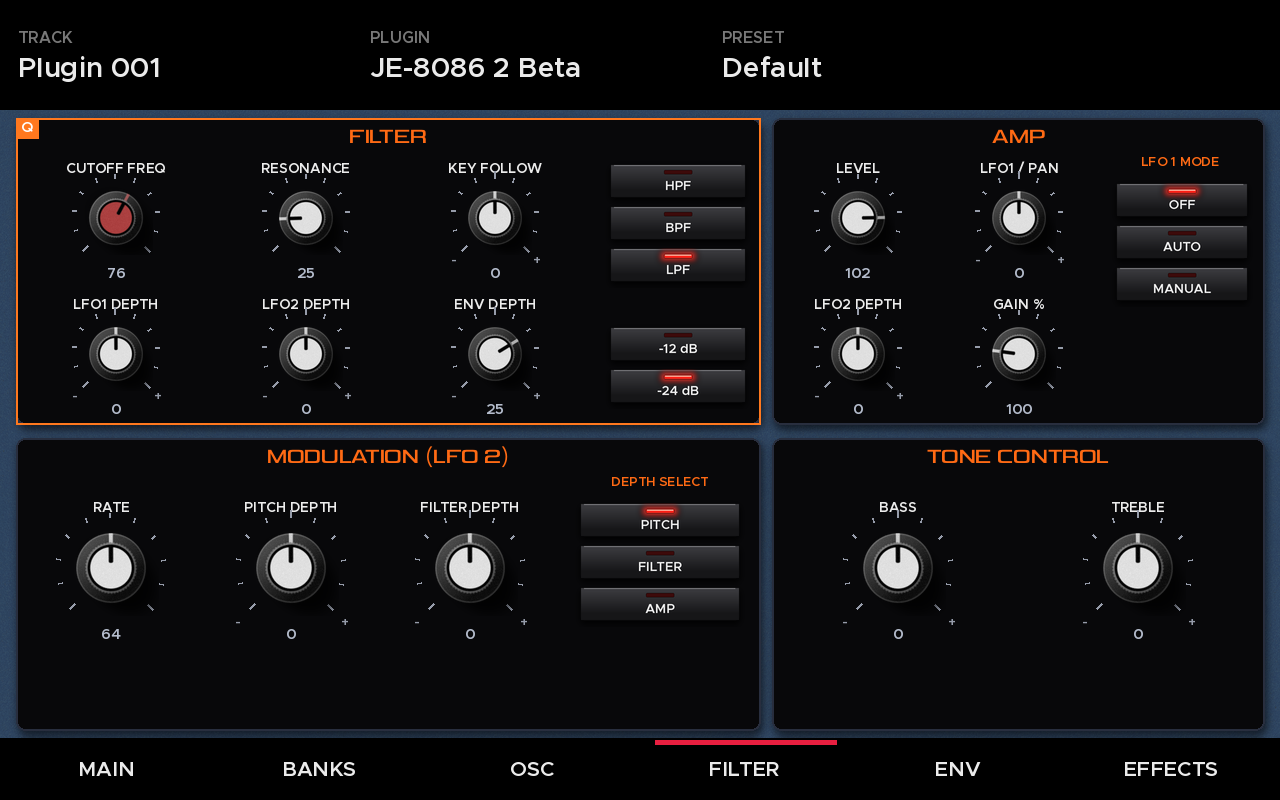
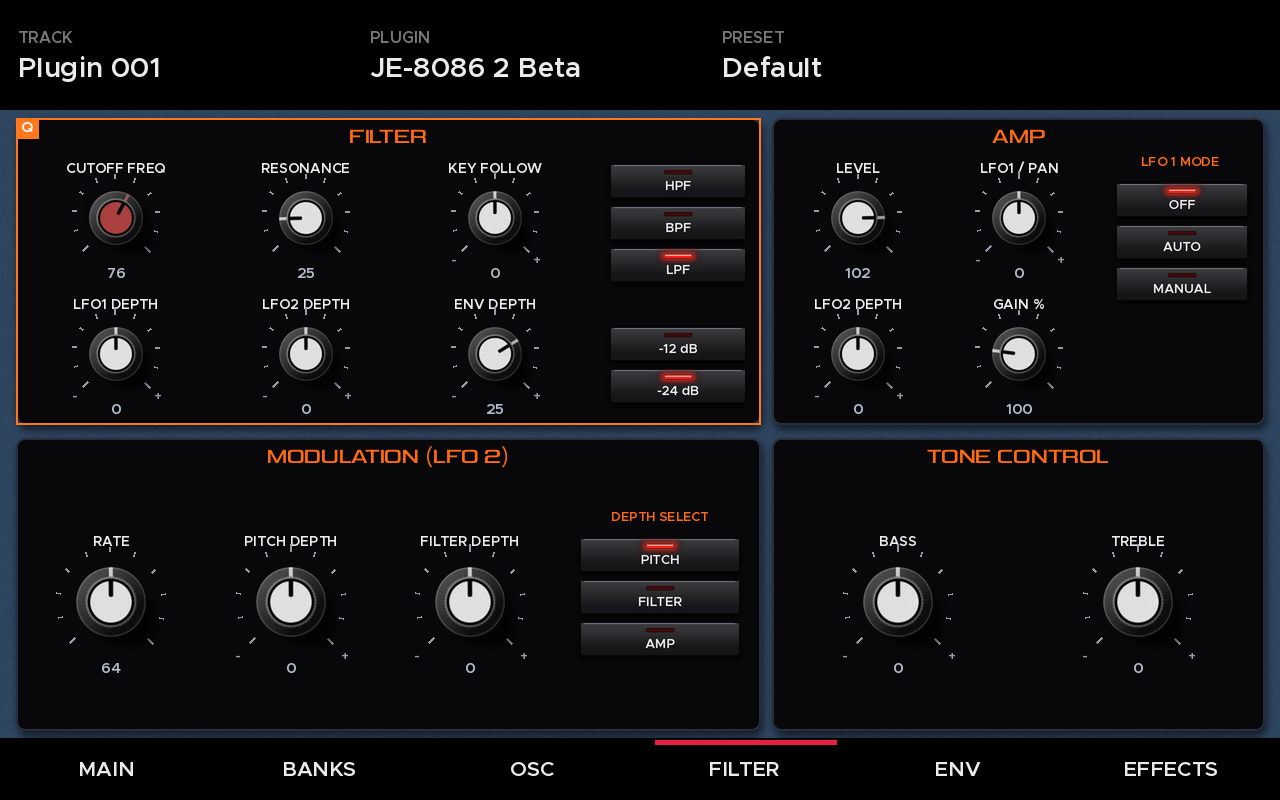
skin: centre the bottom sections on OSC, FILTER and EFFECTS
Claude-Session: https://claude.ai/code/session_01JtHXuWeDq5KzwBjxtMdUGq

diff --git a/tools/skin_pages.py b/tools/skin_pages.py
@@ -418,12 +418,12 @@ def osc_page():
     p.qlink_group((772, Y(92), 1264, Y(356)), ["osc2_range", "osc2_fine", "osc2_ctrl1", "osc2_ctrl2"])
     # OSC COMMON
     p.section(16, Y(368), 1264, Y(620), "OSC COMMON", q=True)
-    knob_row(p, 22, 820, Y(470), [("osc_balance", "OSC BALANCE", .5), ("cross_mod_depth", "X-MOD DEPTH", 0),
+    knob_row(p, 22, 820, Y(500), [("osc_balance", "OSC BALANCE", .5), ("cross_mod_depth", "X-MOD DEPTH", 0),
                                ("osc_lfo1_depth", "LFO1 DEPTH", .5), ("osc_shift", "OSC SHIFT", .5)], D=96)
-    p.legend(1030, Y(400), "RING", 14, art.ORANGE)
-    p.toggle("ring_mod", 960, Y(424), 140, 40, "RING MOD")
-    p.legend(1030, Y(488), "LFO 1 & ENV DEST", 14, art.ORANGE)
-    p.segments("lfo1_env_dest", 840, Y(514), 400, 40, labels=["OSC 1+2", "OSC 2", "X-MOD"], gap=8, size=13)
+    p.legend(1030, Y(430), "RING", 14, art.ORANGE)
+    p.toggle("ring_mod", 960, Y(454), 140, 40, "RING MOD")
+    p.legend(1030, Y(518), "LFO 1 & ENV DEST", 14, art.ORANGE)
+    p.segments("lfo1_env_dest", 840, Y(544), 400, 40, labels=["OSC 1+2", "OSC 2", "X-MOD"], gap=8, size=13)
     p.qlink_group((16, Y(368), 1264, Y(620)), ["osc_balance", "cross_mod_depth", "osc_lfo1_depth", "osc_shift"])
     return p
 
@@ -445,12 +445,12 @@ def filter_page():
     p.segments("amp_lfo1_mode", 1116, Y(148), 132, 34, labels=["OFF", "AUTO", "MANUAL"], cols=1, row_gap=8, size=13)
     p.qlink_group((772, Y(92), 1264, Y(356)), ["amp_level", "amp_lfo1_depth", "amp_lfo2_depth", "gain"])
     p.section(16, Y(368), 760, Y(620), "MODULATION (LFO 2)", q=True)
-    knob_row(p, 22, 560, Y(480), [("lfo2_rate", "RATE", .5), ("pitch_lfo2_depth", "PITCH DEPTH", .5), ("filter_lfo2_depth", "FILTER DEPTH", .5)], D=96)
-    p.legend(660, Y(400), "DEPTH SELECT", 13, art.ORANGE)
-    p.segments("lfo2_depth_select", 580, Y(424), 160, 34, labels=["PITCH", "FILTER", "AMP"], cols=1, row_gap=8, size=13)
+    knob_row(p, 22, 560, Y(510), [("lfo2_rate", "RATE", .5), ("pitch_lfo2_depth", "PITCH DEPTH", .5), ("filter_lfo2_depth", "FILTER DEPTH", .5)], D=96)
+    p.legend(660, Y(430), "DEPTH SELECT", 13, art.ORANGE)
+    p.segments("lfo2_depth_select", 580, Y(454), 160, 34, labels=["PITCH", "FILTER", "AMP"], cols=1, row_gap=8, size=13)
     p.qlink_group((16, Y(368), 760, Y(620)), ["lfo2_rate", "pitch_lfo2_depth", "filter_lfo2_depth", "lfo2_depth_select"])
     p.section(772, Y(368), 1264, Y(620), "TONE CONTROL", q=True)
-    knob_row(p, 778, 1258, Y(480), [("tone_bass", "BASS", .5), ("tone_treble", "TREBLE", .5)], D=96)
+    knob_row(p, 778, 1258, Y(510), [("tone_bass", "BASS", .5), ("tone_treble", "TREBLE", .5)], D=96)
     p.qlink_group((772, Y(368), 1264, Y(620)), ["tone_bass", "tone_treble"])
     return p
 
@@ -507,8 +507,8 @@ def fx_page():
     knob_row(p, 904, 1258, Y(250), [("delay_time", "TIME", .5), ("delay_feedback", "FEEDBACK", .3), ("delay_level", "LEVEL", .3)], D=84)
     p.qlink_group((642, Y(92), 1264, Y(356)), ["delay_time", "delay_feedback", "delay_level", "delay_type"])
     p.section(16, Y(368), 630, Y(620), "PORTAMENTO / BEND", q=True)
-    p.toggle("portamento", 40, Y(420), 120, 44, "PORTA")
-    knob_row(p, 170, 624, Y(470), [("portamento_time", "PORTA TIME", .3), ("bend_up", "BEND UP", .1), ("bend_down", "BEND DOWN", .9)], D=96)
+    p.toggle("portamento", 40, Y(450), 120, 44, "PORTA")
+    knob_row(p, 170, 624, Y(500), [("portamento_time", "PORTA TIME", .3), ("bend_up", "BEND UP", .1), ("bend_down", "BEND DOWN", .9)], D=96)
     p.qlink_group((16, Y(368), 630, Y(620)), ["portamento_time", "bend_up", "bend_down", "portamento"])
     p.section(642, Y(368), 1264, Y(620), "CONTROL")
     art.bracket(p.d, 672, 930, Y(430), "SOLO SW")
